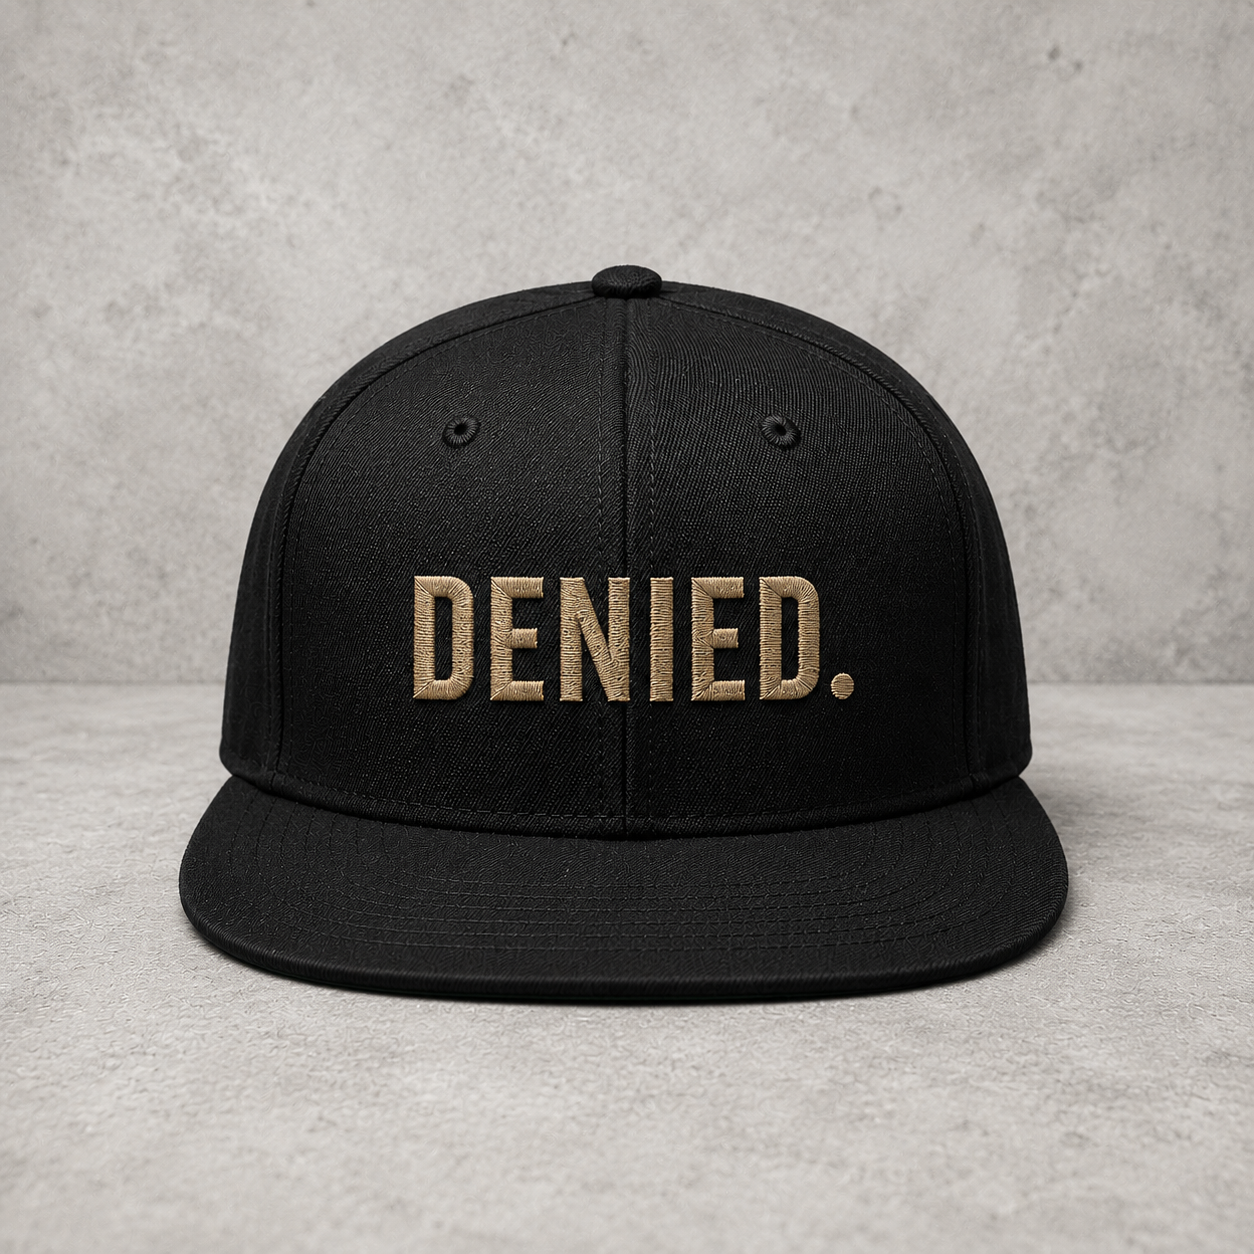
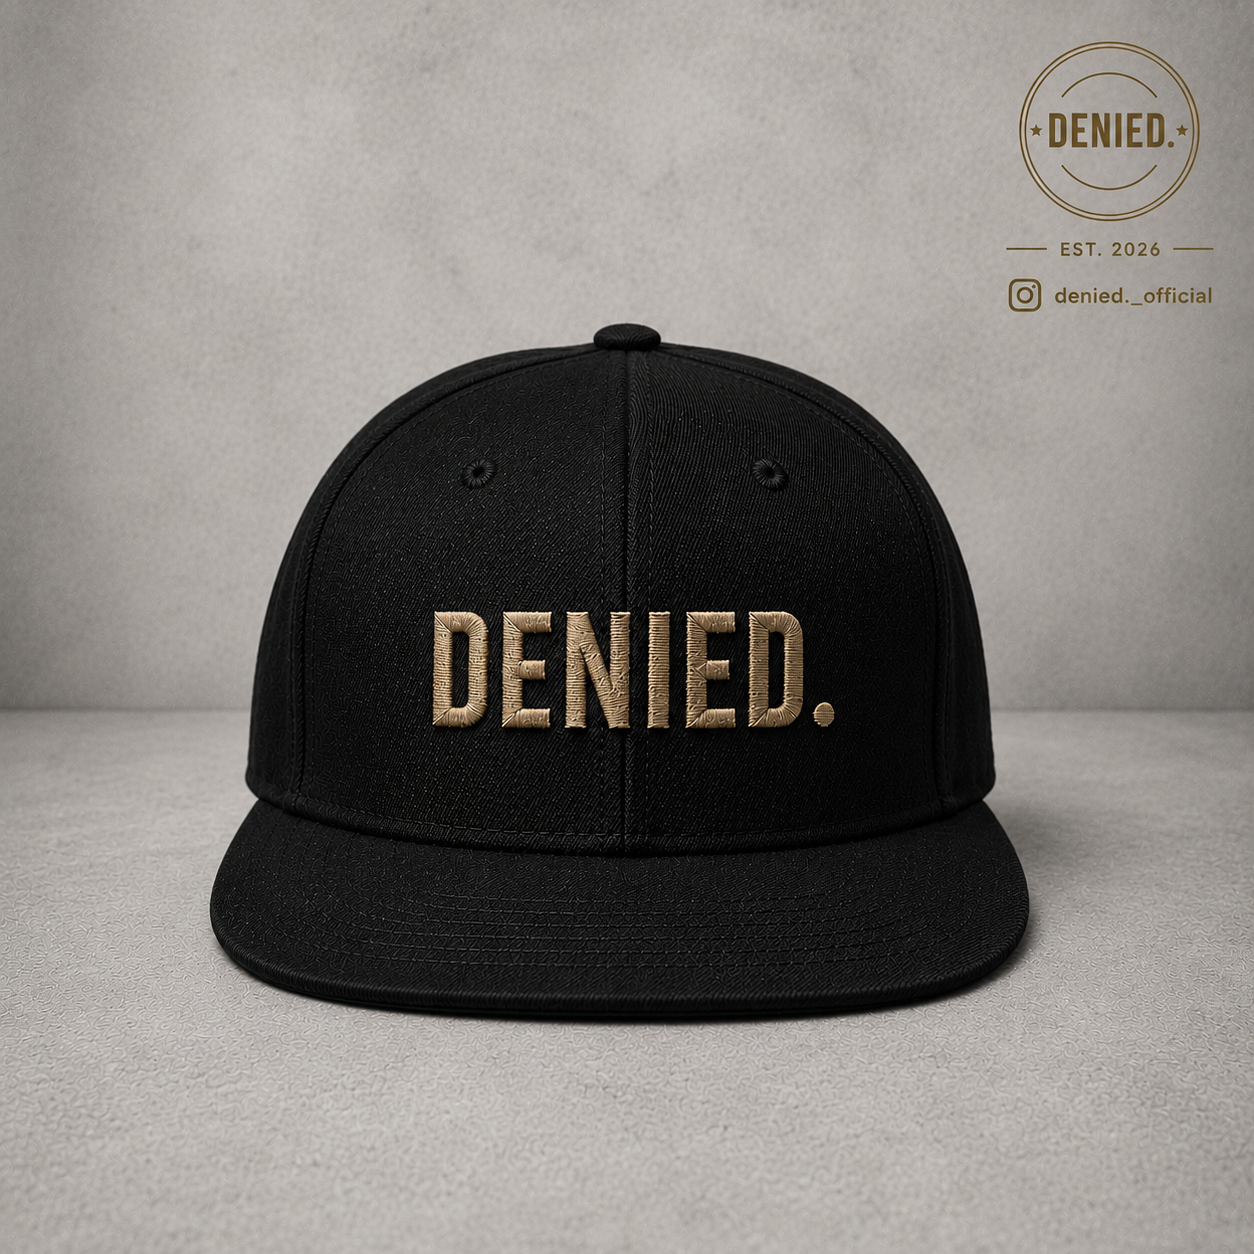
Wishlist: full functionality - persist to localStorage, toggle on cards/product page, badge in navbar, wishlist page with products

diff --git a/src/context/WishlistContext.tsx b/src/context/WishlistContext.tsx
@@ -1,0 +1,75 @@
+"use client";
+
+import { createContext, useContext, useState, useEffect, ReactNode } from "react";
+import { Product, getProductById } from "@/data/products";
+
+interface WishlistContextType {
+  items: number[];
+  addToWishlist: (productId: number) => void;
+  removeFromWishlist: (productId: number) => void;
+  isInWishlist: (productId: number) => boolean;
+  toggleWishlist: (productId: number) => void;
+  wishlistProducts: Product[];
+  totalItems: number;
+}
+
+const WishlistContext = createContext<WishlistContextType>({
+  items: [],
+  addToWishlist: () => {},
+  removeFromWishlist: () => {},
+  isInWishlist: () => false,
+  toggleWishlist: () => {},
+  wishlistProducts: [],
+  totalItems: 0,
+});
+
+export function WishlistProvider({ children }: { children: ReactNode }) {
+  const [items, setItems] = useState<number[]>([]);
+
+  // Load from localStorage
+  useEffect(() => {
+    const saved = localStorage.getItem("denied-wishlist");
+    if (saved) {
+      try {
+        setItems(JSON.parse(saved));
+      } catch {}
+    }
+  }, []);
+
+  // Save to localStorage
+  useEffect(() => {
+    localStorage.setItem("denied-wishlist", JSON.stringify(items));
+  }, [items]);
+
+  const addToWishlist = (productId: number) => {
+    setItems((prev) => prev.includes(productId) ? prev : [...prev, productId]);
+  };
+
+  const removeFromWishlist = (productId: number) => {
+    setItems((prev) => prev.filter((id) => id !== productId));
+  };
+
+  const isInWishlist = (productId: number) => items.includes(productId);
+
+  const toggleWishlist = (productId: number) => {
+    if (isInWishlist(productId)) {
+      removeFromWishlist(productId);
+    } else {
+      addToWishlist(productId);
+    }
+  };
+
+  const wishlistProducts = items
+    .map((id) => getProductById(id))
+    .filter((p): p is Product => p !== undefined);
+
+  const totalItems = items.length;
+
+  return (
+    <WishlistContext.Provider value={{ items, addToWishlist, removeFromWishlist, isInWishlist, toggleWishlist, wishlistProducts, totalItems }}>
+      {children}
+    </WishlistContext.Provider>
+  );
+}
+
+export const useWishlist = () => useContext(WishlistContext);

diff --git a/src/app/wishlist/page.tsx b/src/app/wishlist/page.tsx
@@ -1,10 +1,14 @@
 "use client";
 
+import { useWishlist } from "@/context/WishlistContext";
 import ScrollReveal from "@/components/ScrollReveal";
+import ProductCard from "@/components/ProductCard";
 import Link from "next/link";
 import MagneticButton from "@/components/MagneticButton";
 
 export default function WishlistPage() {
+  const { wishlistProducts, totalItems } = useWishlist();
+
   return (
     <section className="min-h-screen pt-32 pb-20 px-6 md:px-12">
       <div className="max-w-[1400px] mx-auto">
@@ -12,22 +16,33 @@ export default function WishlistPage() {
           <p className="text-[10px] uppercase tracking-brutal text-gold mb-4">
             Your Selection
           </p>
-          <h1 className="font-display text-5xl md:text-7xl uppercase mb-12">
+          <h1 className="font-display text-5xl md:text-7xl uppercase mb-4">
             Wishlist
           </h1>
+          <p className="text-gray-500 text-sm mb-12">{totalItems} {totalItems === 1 ? "item" : "items"}</p>
         </ScrollReveal>
 
-        <div className="text-center py-20">
-          <p className="text-gray-500 text-sm mb-8">Your wishlist is empty.</p>
-          <MagneticButton strength={0.2}>
-            <Link
-              href="/collection"
-              className="inline-block text-[11px] uppercase tracking-brutal border border-white/20 px-10 py-4 text-white hover:bg-white hover:text-black transition-all duration-500"
-            >
-              Explore Collection
-            </Link>
-          </MagneticButton>
-        </div>
+        {wishlistProducts.length === 0 ? (
+          <div className="text-center py-20">
+            <p className="text-gray-500 text-sm mb-8">Your wishlist is empty.</p>
+            <MagneticButton strength={0.2}>
+              <Link
+                href="/collection"
+                className="inline-block text-[11px] uppercase tracking-brutal border border-white/20 px-10 py-4 rounded-full text-white hover:bg-white hover:text-black transition-all duration-500"
+              >
+                Explore Collection
+              </Link>
+            </MagneticButton>
+          </div>
+        ) : (
+          <div className="grid grid-cols-1 md:grid-cols-2 lg:grid-cols-3 gap-6 md:gap-8">
+            {wishlistProducts.map((product) => (
+              <ScrollReveal key={product.id}>
+                <ProductCard product={product} />
+              </ScrollReveal>
+            ))}
+          </div>
+        )}
       </div>
     </section>
   );

diff --git a/src/app/product/[id]/page.tsx b/src/app/product/[id]/page.tsx
@@ -11,6 +11,7 @@ import ProductCard from "@/components/ProductCard";
 import MagneticButton from "@/components/MagneticButton";
 import SizeGuide from "@/components/SizeGuide";
 import { useCart } from "@/context/CartContext";
+import { useWishlist } from "@/context/WishlistContext";
 
 // ===== IMAGE ZOOM MODAL =====
 function ImageZoomModal({ src, alt, onClose }: { src: string; alt: string; onClose: () => void }) {
@@ -120,6 +121,8 @@ export default function ProductPage() {
   const [selectedColor, setSelectedColor] = useState<string>(product?.details.colors[0] || "");
   const [zoomOpen, setZoomOpen] = useState(false);
   const { addToCart } = useCart();
+  const { isInWishlist, toggleWishlist } = useWishlist();
+  const wishlisted = product ? isInWishlist(product.id) : false;
 
   // Get images based on selected color
   const currentImages = selectedColor && product?.colorImages[selectedColor]
@@ -376,11 +379,18 @@ export default function ProductPage() {
                 </button>
               </MagneticButton>
 
-              <button className="w-full border border-white/10 text-white text-[11px] uppercase tracking-brutal py-4 hover:border-gold hover:text-gold transition-all duration-300 flex items-center justify-center gap-3 rounded-full">
-                <svg width="16" height="16" viewBox="0 0 24 24" fill="none" stroke="currentColor" strokeWidth="1.5">
+              <button
+                onClick={() => product && toggleWishlist(product.id)}
+                className={`w-full border text-[11px] uppercase tracking-brutal py-4 transition-all duration-300 flex items-center justify-center gap-3 rounded-full ${
+                  wishlisted
+                    ? "border-gold text-gold bg-gold/10"
+                    : "border-white/10 text-white hover:border-gold hover:text-gold"
+                }`}
+              >
+                <svg width="16" height="16" viewBox="0 0 24 24" fill={wishlisted ? "currentColor" : "none"} stroke="currentColor" strokeWidth="1.5">
                   <path d="M20.84 4.61a5.5 5.5 0 00-7.78 0L12 5.67l-1.06-1.06a5.5 5.5 0 00-7.78 7.78l1.06 1.06L12 21.23l7.78-7.78 1.06-1.06a5.5 5.5 0 000-7.78z" />
                 </svg>
-                Add to Wishlist
+                {wishlisted ? "Added to Wishlist" : "Add to Wishlist"}
               </button>
             </div>
 

diff --git a/src/app/layout.tsx b/src/app/layout.tsx
@@ -8,6 +8,7 @@ import InstagramFloater from "@/components/InstagramFloater";
 import BackToTop from "@/components/BackToTop";
 import { AuthProvider } from "@/context/AuthContext";
 import { CartProvider } from "@/context/CartContext";
+import { WishlistProvider } from "@/context/WishlistContext";
 
 const inter = Inter({
   subsets: ["latin"],
@@ -52,12 +53,14 @@ export default function RootLayout({
       <body className="bg-black text-white font-body antialiased overflow-x-hidden">
         <AuthProvider>
           <CartProvider>
-            <GrainOverlay />
-            <Navbar />
-            <main>{children}</main>
-            <Footer />
-            <InstagramFloater />
-            <BackToTop />
+            <WishlistProvider>
+              <GrainOverlay />
+              <Navbar />
+              <main>{children}</main>
+              <Footer />
+              <InstagramFloater />
+              <BackToTop />
+            </WishlistProvider>
           </CartProvider>
         </AuthProvider>
       </body>

diff --git a/src/components/ProductCard.tsx b/src/components/ProductCard.tsx
@@ -4,12 +4,16 @@ import { motion } from "framer-motion";
 import Image from "next/image";
 import Link from "next/link";
 import { Product } from "@/data/products";
+import { useWishlist } from "@/context/WishlistContext";
 
 interface ProductCardProps {
   product: Product;
 }
 
 export default function ProductCard({ product }: ProductCardProps) {
+  const { isInWishlist, toggleWishlist } = useWishlist();
+  const wishlisted = isInWishlist(product.id);
+
   return (
     <Link href={`/product/${product.id}`}>
       <motion.div
@@ -42,11 +46,11 @@ export default function ProductCard({ product }: ProductCardProps) {
           {/* Wishlist — appears on hover */}
           <div className="absolute top-4 right-4 z-20 opacity-0 group-hover:opacity-100 transition-all duration-400 translate-y-1 group-hover:translate-y-0">
             <button
-              onClick={(e) => { e.preventDefault(); e.stopPropagation(); }}
-              className="w-9 h-9 glass-subtle flex items-center justify-center text-white/70 hover:text-gold transition-colors duration-200"
+              onClick={(e) => { e.preventDefault(); e.stopPropagation(); toggleWishlist(product.id); }}
+              className={`w-9 h-9 glass-subtle flex items-center justify-center transition-colors duration-200 ${wishlisted ? "text-gold" : "text-white/70 hover:text-gold"}`}
               aria-label="Add to wishlist"
             >
-              <svg width="16" height="16" viewBox="0 0 24 24" fill="none" stroke="currentColor" strokeWidth="1.5">
+              <svg width="16" height="16" viewBox="0 0 24 24" fill={wishlisted ? "currentColor" : "none"} stroke="currentColor" strokeWidth="1.5">
                 <path d="M20.84 4.61a5.5 5.5 0 00-7.78 0L12 5.67l-1.06-1.06a5.5 5.5 0 00-7.78 7.78l1.06 1.06L12 21.23l7.78-7.78 1.06-1.06a5.5 5.5 0 000-7.78z" />
               </svg>
             </button>

diff --git a/src/components/Navbar.tsx b/src/components/Navbar.tsx
@@ -5,6 +5,7 @@ import { motion, AnimatePresence } from "framer-motion";
 import Image from "next/image";
 import Link from "next/link";
 import { useCart } from "@/context/CartContext";
+import { useWishlist } from "@/context/WishlistContext";
 
 const categories = ["T-Shirts", "Caps"];
 const filters = ["New In", "Best Sellers", "All Collection"];
@@ -17,6 +18,7 @@ export default function Navbar() {
   const [wishlistHover, setWishlistHover] = useState(false);
   const [cartHover, setCartHover] = useState(false);
   const { totalItems } = useCart();
+  const { totalItems: wishlistCount } = useWishlist();
 
   useEffect(() => {
     const handleScroll = () => setScrolled(window.scrollY > 50);
@@ -153,6 +155,11 @@ export default function Navbar() {
                 <svg width="20" height="20" viewBox="0 0 24 24" fill="none" stroke="currentColor" strokeWidth="1.5">
                   <path d="M20.84 4.61a5.5 5.5 0 00-7.78 0L12 5.67l-1.06-1.06a5.5 5.5 0 00-7.78 7.78l1.06 1.06L12 21.23l7.78-7.78 1.06-1.06a5.5 5.5 0 000-7.78z" />
                 </svg>
+                {wishlistCount > 0 && (
+                  <span className="absolute -top-1 -right-1 w-4 h-4 bg-gold text-black text-[8px] font-bold rounded-full flex items-center justify-center">
+                    {wishlistCount}
+                  </span>
+                )}
               </Link>
               <AnimatePresence>
                 {wishlistHover && (